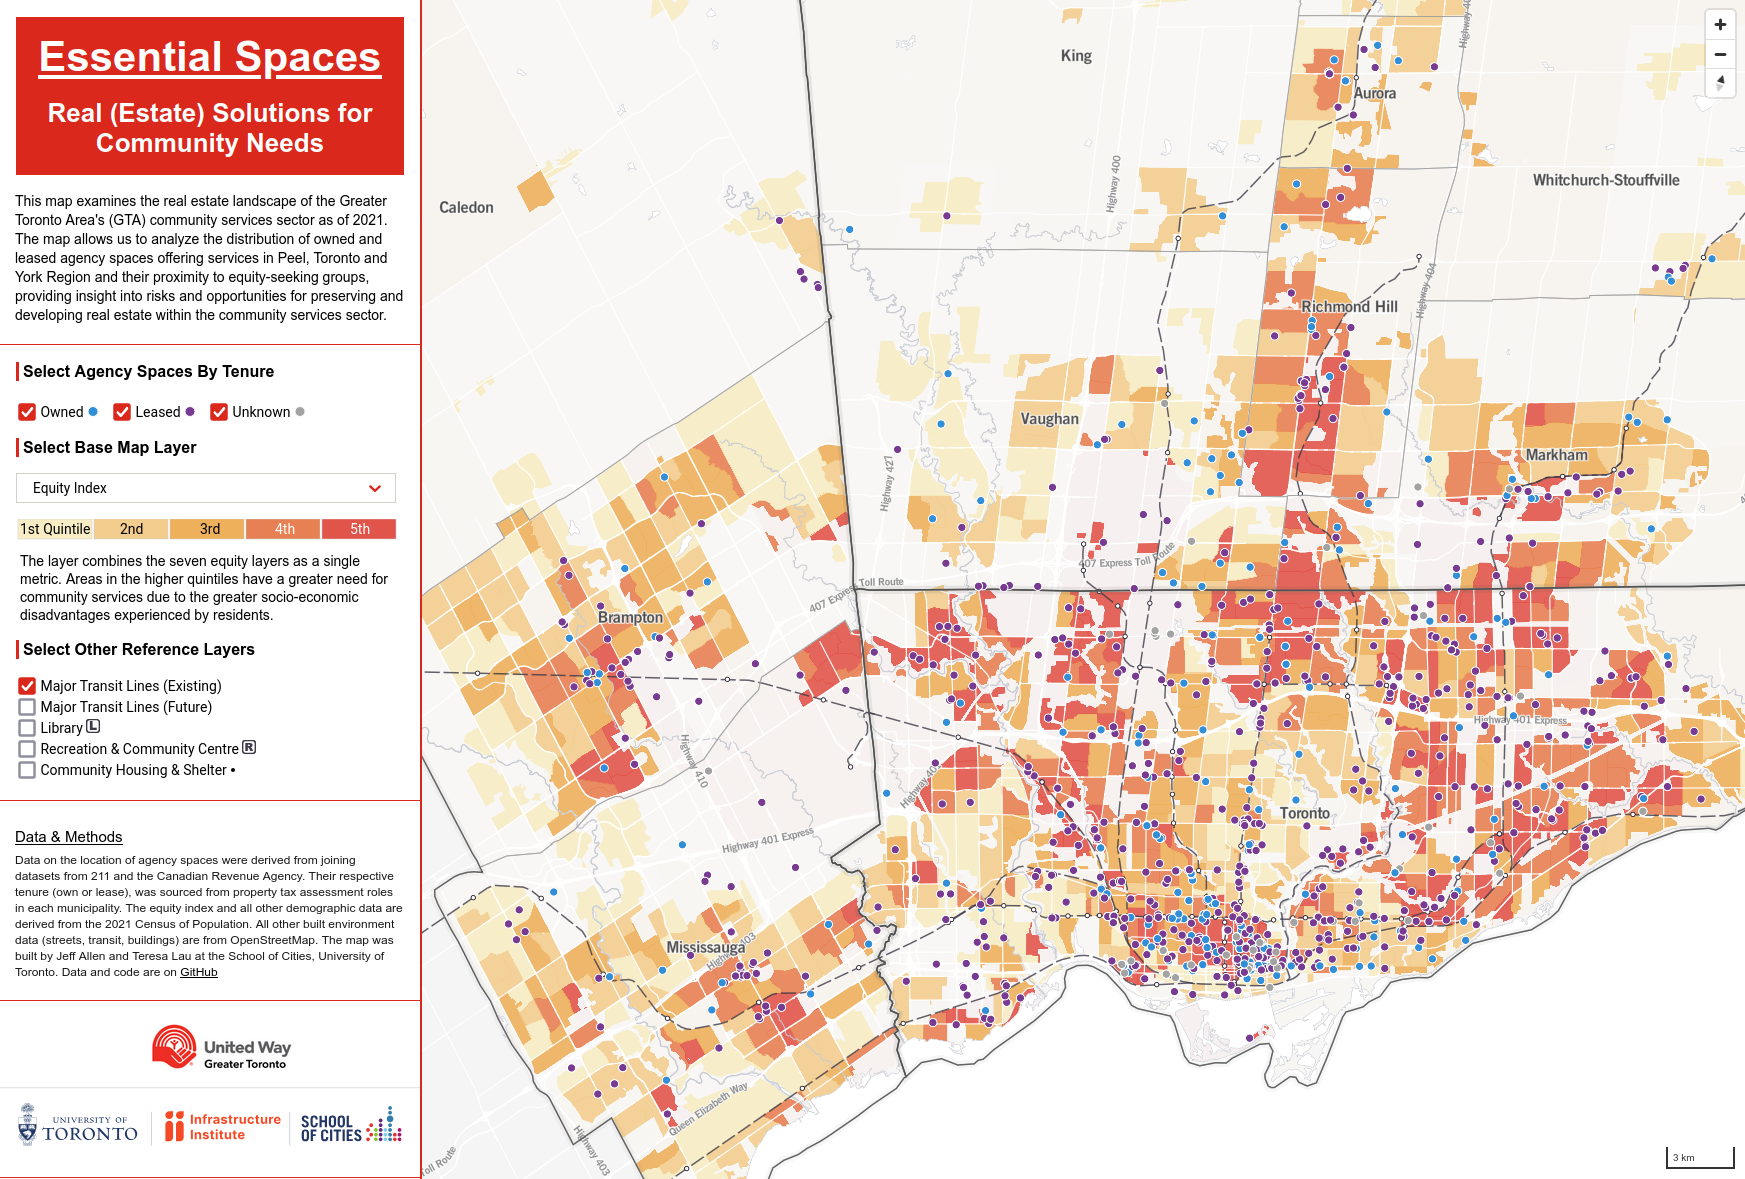
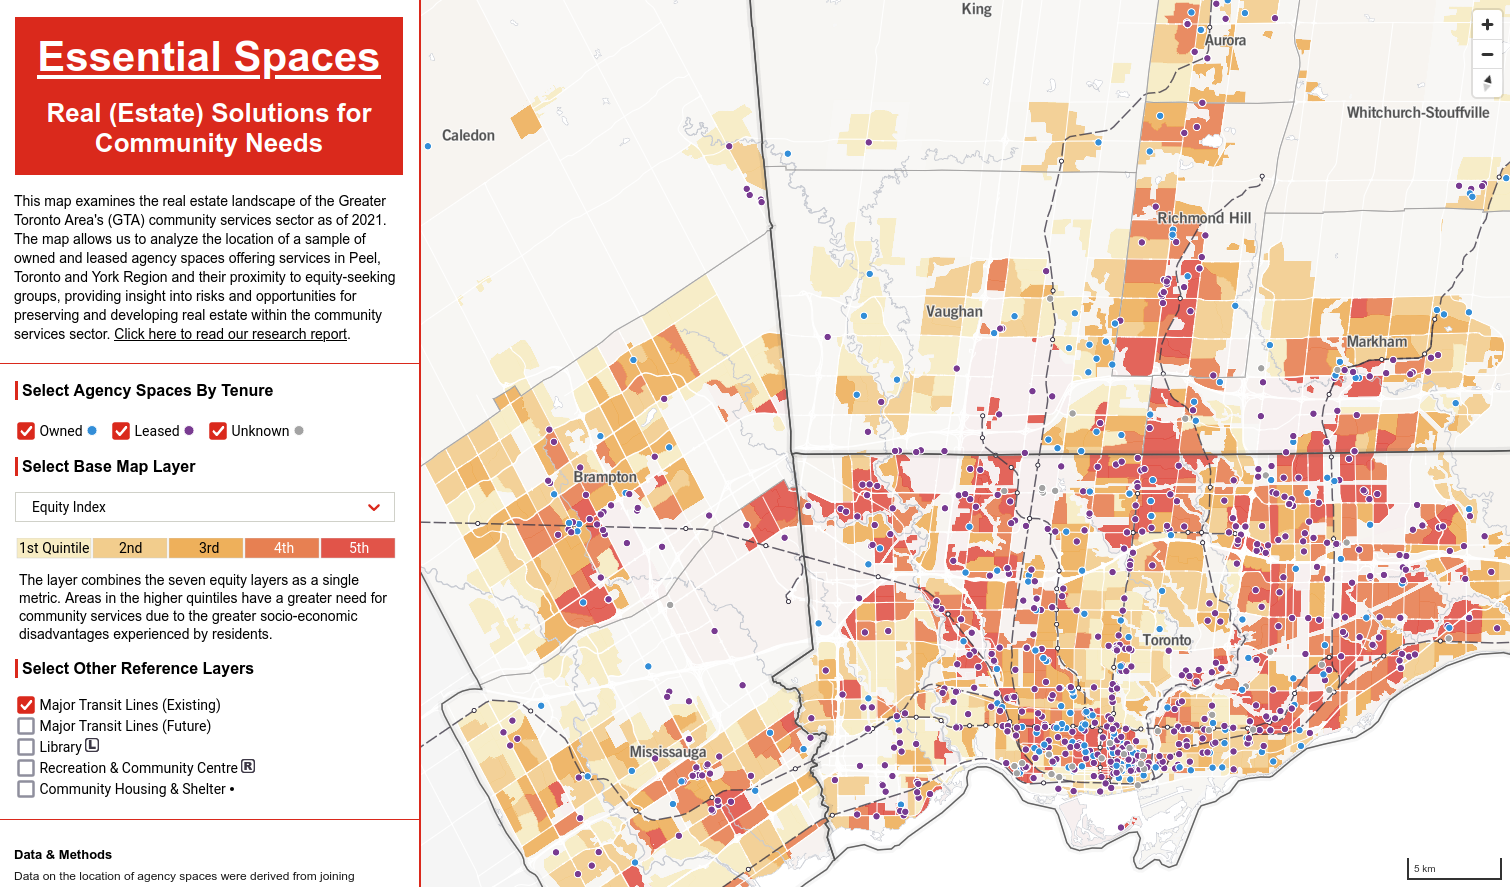
updating linkings in text, update readme

diff --git a/src/routes/map/+page.svelte b/src/routes/map/+page.svelte
@@ -799,7 +799,7 @@ onMount(() => {
 
 	<p>
 		This map examines the real estate landscape of the Greater Toronto Area's (GTA) community services sector as of 2021. The map allows us to analyze the location of a sample of owned and leased agency spaces offering services in Peel, Toronto and York Region and their proximity to equity-seeking groups, providing insight into risks and opportunities for preserving and developing real estate within the community services sector. 
-		<!-- <a href="https://www.unitedwaygt.org/the-work/research-and-reports/?utm_medium=print&utm_term=qr_code&utm_source=bookmark&utm_content=read-report&utm_campaign=community-realestate" target="_blank">Click here to read our research report</a>. -->
+		<a href="https://www.unitedwaygt.org/wp-content/uploads/2024/10/Essential-Spaces-Full-Report-compressed.pdf" target="_blank">Click here to read our research report</a>.
 	</p>
 
 	<div class="line"></div>
@@ -958,10 +958,10 @@ onMount(() => {
 	<h4>Data & Methods</h4>
 
 	<p class="notes">
-		Data on the location of agency spaces were derived from joining datasets from the Canadian Revenue Agency and 211, both from 2021. Their respective tenure (own or lease), was sourced from property tax assessment roles in each municipality. The equity index and all other demographic data are derived from the 2021 Census of Population. Read our report for details about our data collection and analysis process. All other built environment data (streets, transit, buildings) shown on a the map are from OpenStreetMap. The map and website was built by Jeff Allen and Teresa Lau at the School of Cities, University of Toronto as part of a wider research effort alongside United Way Greater Toronto and the Infrastructure Institute. Data and code for this map are on GitHub.
-		<!-- Data on the location of agency spaces were derived from joining datasets from the <a href="https://open.canada.ca/data/en/dataset/08ae3944-1a9d-483a-a7ae-116bc58199fd" target="_blank">Canadian Revenue Agency</a> and <a href="https://211ontario.ca/211-data/" target="_blank">211</a>, both from 2021. Their respective tenure (own or lease), was sourced from property tax assessment roles in each municipality. The equity index and all other demographic data are derived from the <a href="https://www12.statcan.gc.ca/census-recensement/2021/dp-pd/prof/index.cfm?Lang=E" target="_blank">2021 Census of Population</a>. <a href="https://www.unitedwaygt.org/the-work/research-and-reports/?utm_medium=print&utm_term=qr_code&utm_source=bookmark&utm_content=read-report&utm_campaign=community-realestate" target="_blank">Read our report</a> for details about our data collection and analysis process. All other built environment data (streets, transit, buildings) shown on a the map are from <a href="https://www.openstreetmap.org/" target="_blank">OpenStreetMap</a>. The map and website was built by Jeff Allen and Teresa Lau at the <a href="https://schoolofcities.utoronto.ca/" target="_blank">School of Cities, University of Toronto</a> as part of a wider research effort alongside <a href="https://www.unitedwaygt.org/" target="_blank">United Way Greater Toronto</a> and the <a href="https://infrastructureinstitute.ca/" target="_blank">Infrastructure Institute</a>. Data and code for this map are on <a href="https://github.com/schoolofcities/non-profit-real-estate" target="_blank">GitHub</a>. -->
+		<!-- Data on the location of agency spaces were derived from joining datasets from the Canadian Revenue Agency and 211, both from 2021. Their respective tenure (own or lease), was sourced from property tax assessment roles in each municipality. The equity index and all other demographic data are derived from the 2021 Census of Population. Read our report for details about our data collection and analysis process. All other built environment data (streets, transit, buildings) shown on a the map are from OpenStreetMap. The map and website was built by Jeff Allen and Teresa Lau at the School of Cities, University of Toronto as part of a wider research effort alongside United Way Greater Toronto and the Infrastructure Institute. Data and code for this map are on GitHub. -->
+		Data on the location of agency spaces were derived from joining datasets from the <a href="https://open.canada.ca/data/en/dataset/08ae3944-1a9d-483a-a7ae-116bc58199fd" target="_blank">Canadian Revenue Agency</a> and <a href="https://211ontario.ca/211-data/" target="_blank">211</a>, both from 2021. Their respective tenure (own or lease), was sourced from property tax assessment roles in each municipality. The equity index and all other demographic data are derived from the <a href="https://www12.statcan.gc.ca/census-recensement/2021/dp-pd/prof/index.cfm?Lang=E" target="_blank">2021 Census of Population</a>. <a href="https://www.unitedwaygt.org/wp-content/uploads/2024/10/Essential-Spaces-Full-Report-compressed.pdf" target="_blank">Read our report</a> for details about our data collection and analysis process. All other built environment data (streets, transit, buildings) shown on a the map are from <a href="https://www.openstreetmap.org/" target="_blank">OpenStreetMap</a>. The map and website was built by <a href="https://jamaps.github.io/"  target="_blank">Jeff Allen</a> and <a href="https://www.linkedin.com/in/teresacmlau/" target="_blank">Teresa Lau</a> at the <a href="https://schoolofcities.utoronto.ca/" target="_blank">School of Cities, University of Toronto</a> as part of a wider research effort alongside <a href="https://www.unitedwaygt.org/" target="_blank">United Way Greater Toronto</a> and the <a href="https://infrastructureinstitute.ca/" target="_blank">Infrastructure Institute</a>. Data and code for this map are on <a href="https://github.com/schoolofcities/non-profit-real-estate" target="_blank">GitHub</a>.
 	</p>
-
+	
 	<div class="line"></div>
 
 	<img src="./map/logos.svg" alt="United Way & University of Toronto Logos" />

diff --git a/README.md b/README.md
@@ -1,3 +1,3 @@
-<!-- in development
+Code and data to build https://schoolofcities.github.io/essential-spaces/map
 
-![Map Screenshot](static/map/map-screenshot.png) -->
+![Map Screenshot](static/map/map-screenshot.png)
